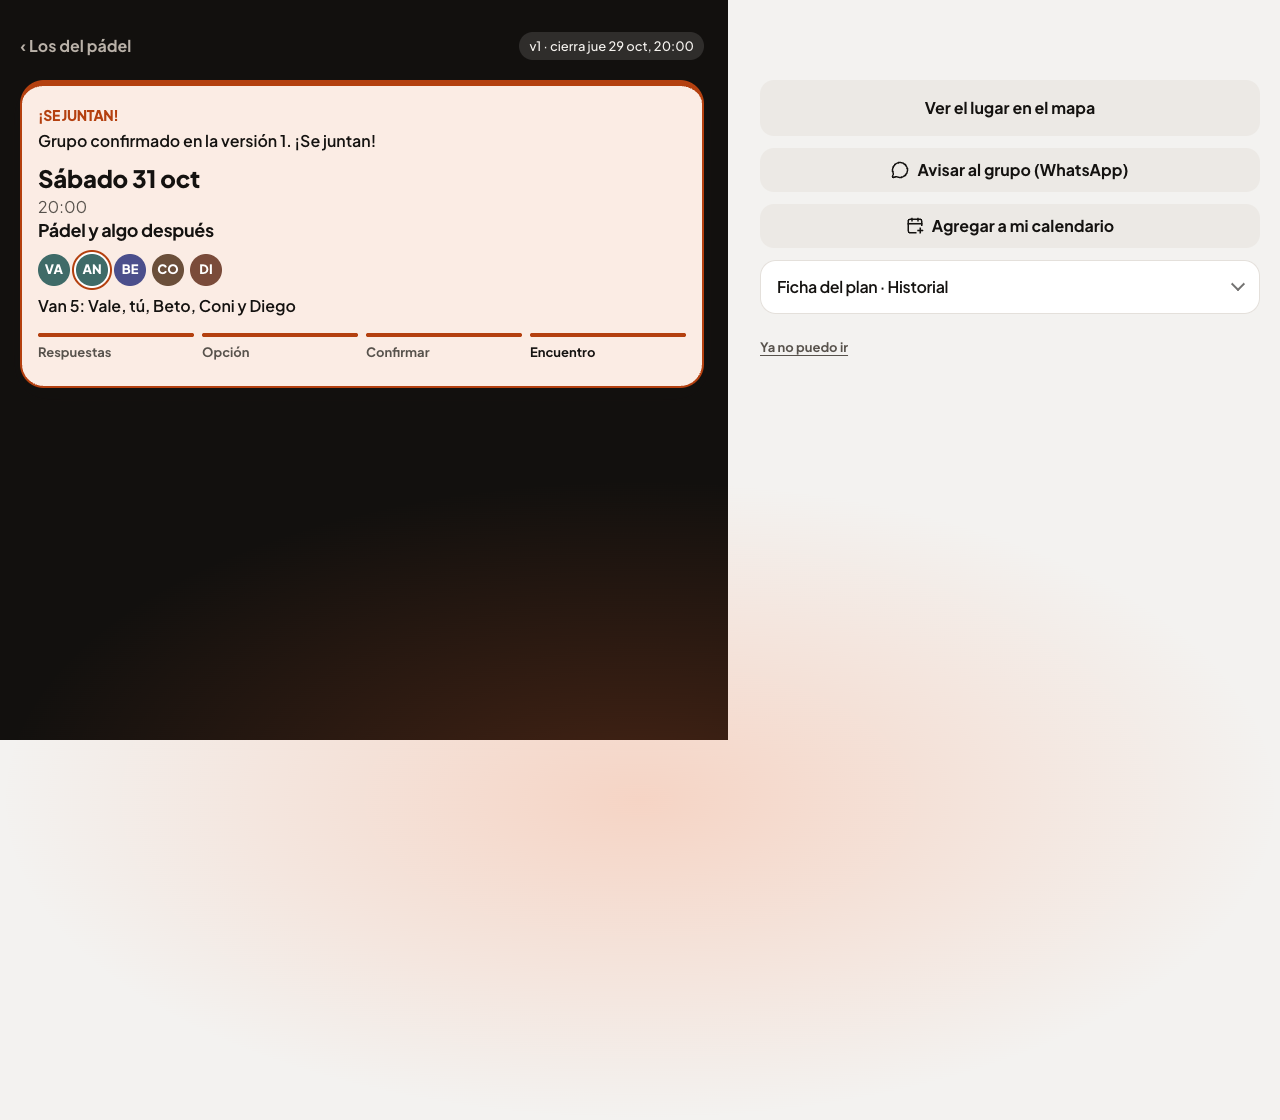
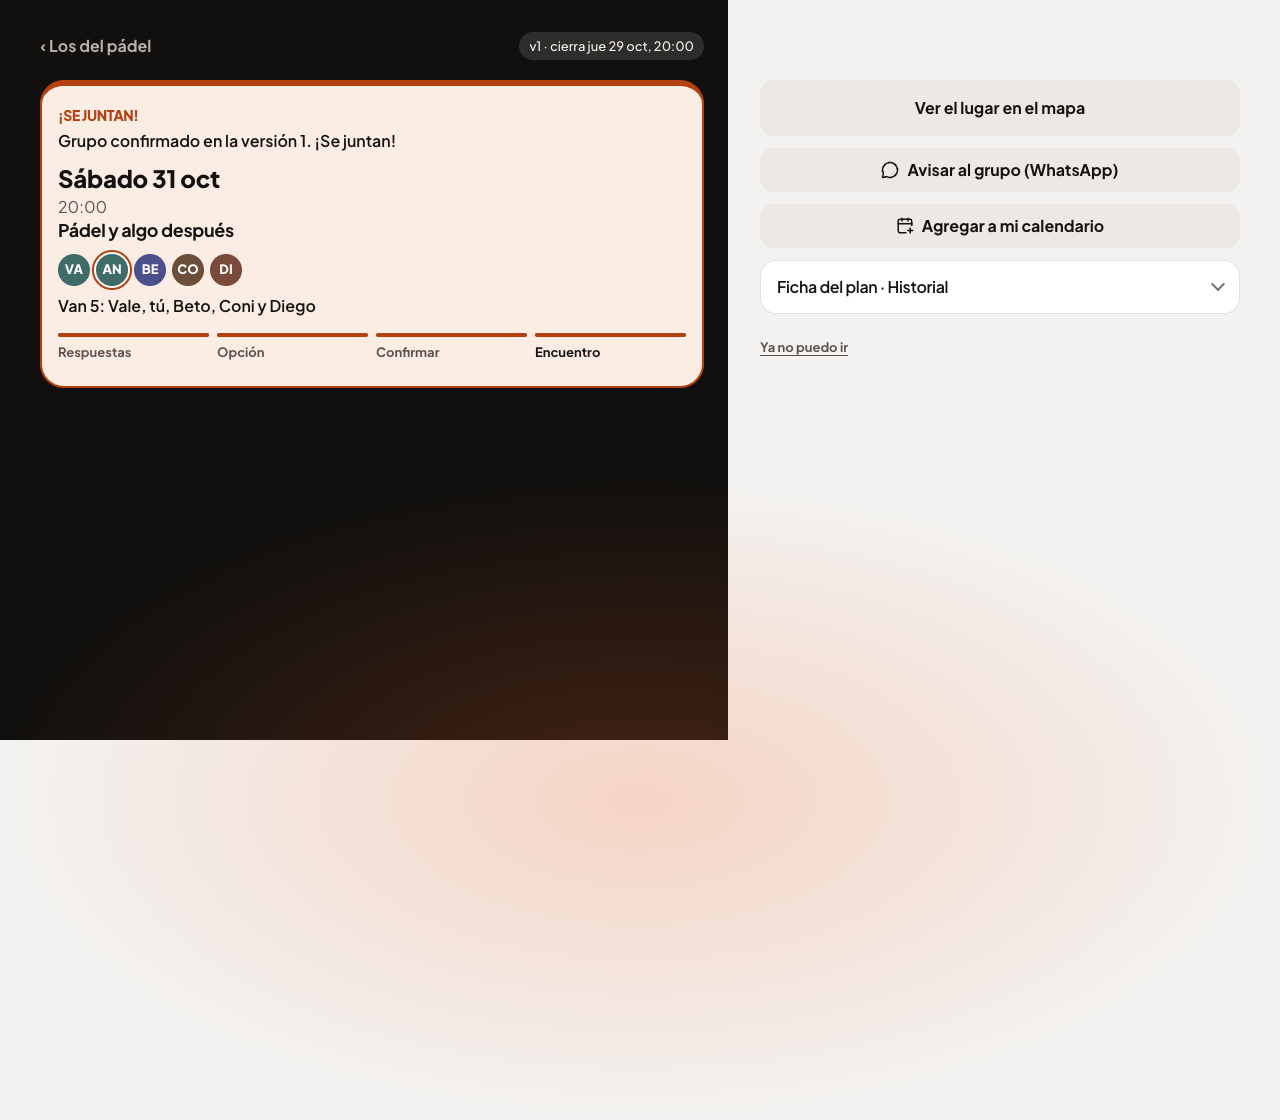
S4: pasada en producción (28/29 en la demo propia, capturas a 320/375/768/1280); rótulo demo sin estirar y aire bajo los botones de ¡Se juntan!

diff --git a/src/estilo/seccion-s4.css b/src/estilo/seccion-s4.css
@@ -522,3 +522,17 @@ a.fila:hover {
 .vista-plan .escena.resultado-escena::before {
   inset: auto 0 -40% 0;
 }
+
+/* Defectos de la pasada en producción (05:00): el rótulo «demo» no se estira y los botones de ¡Se juntan! no tocan la fila de abajo. */
+.fila .rotulo-sim {
+  display: inline-block;
+  margin-left: var(--e-2);
+  width: auto;
+}
+.filas-botones + .filas,
+.filas-botones + details {
+  margin-top: var(--e-3);
+}
+.filas-plan .filas-botones {
+  margin-bottom: var(--e-3);
+}
